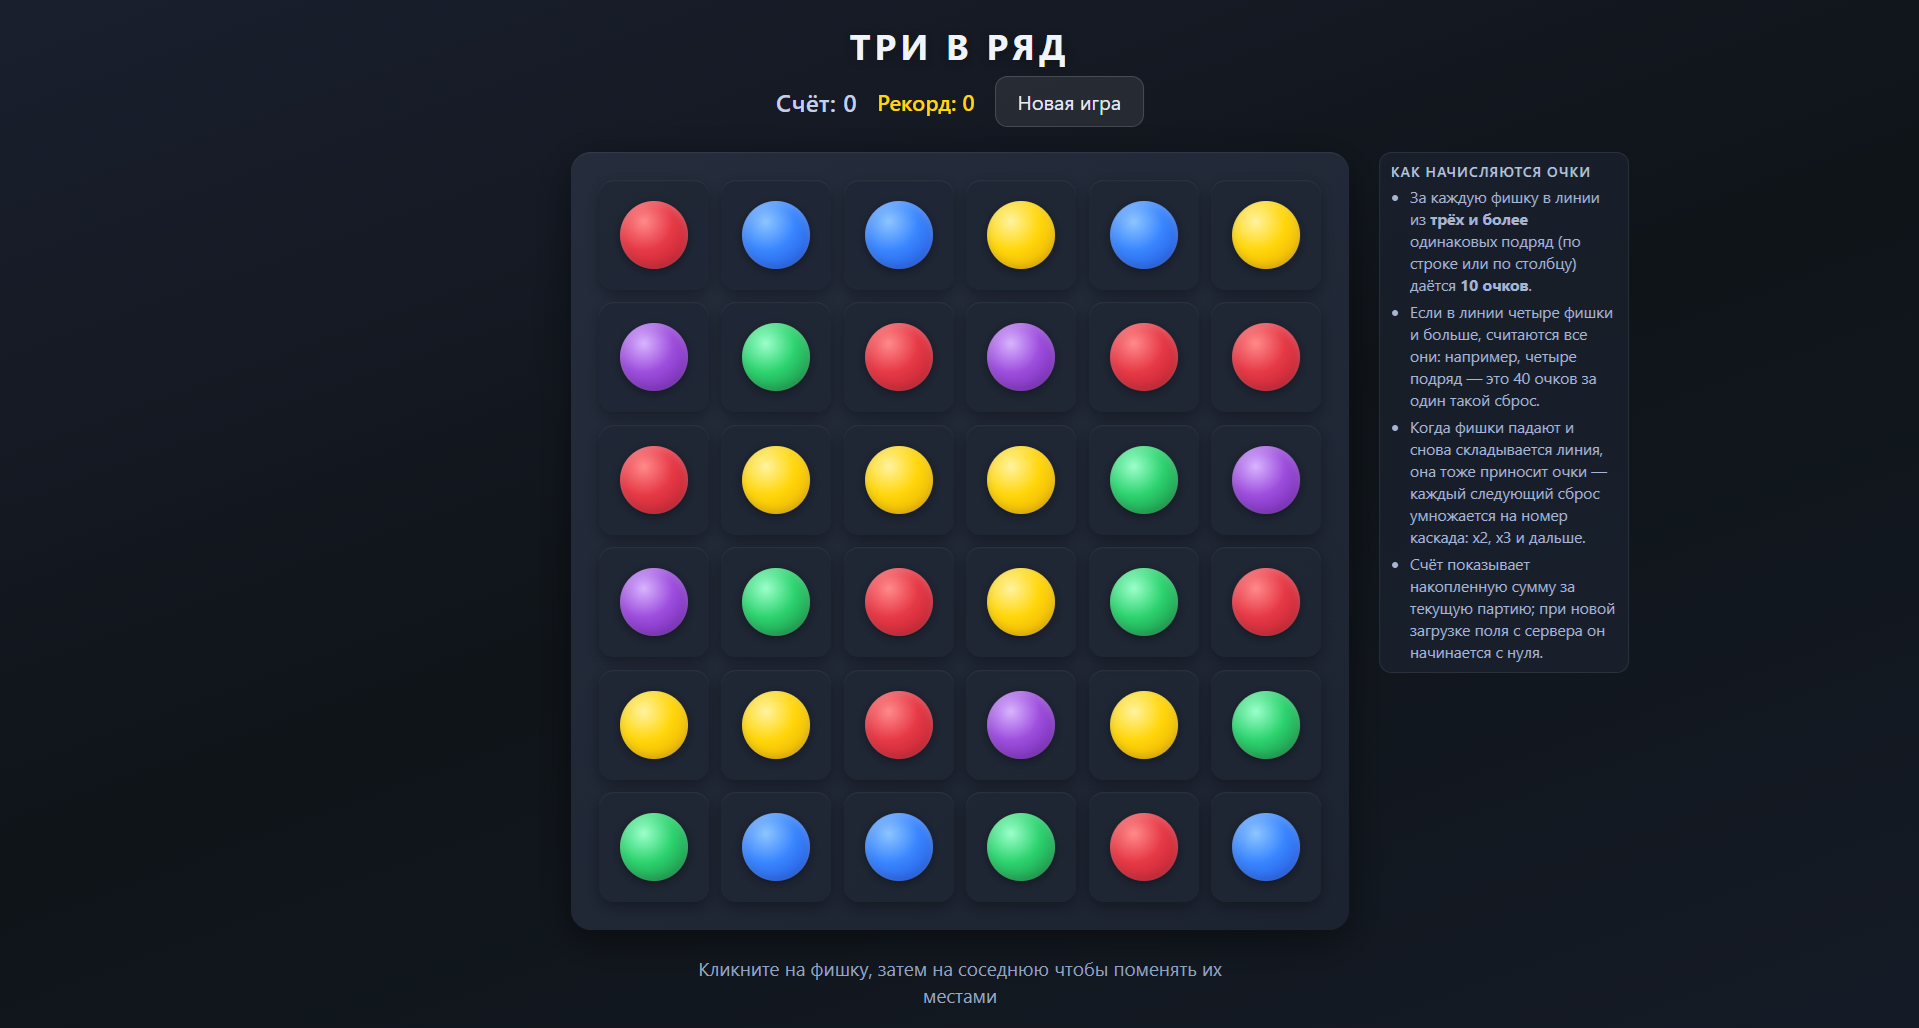
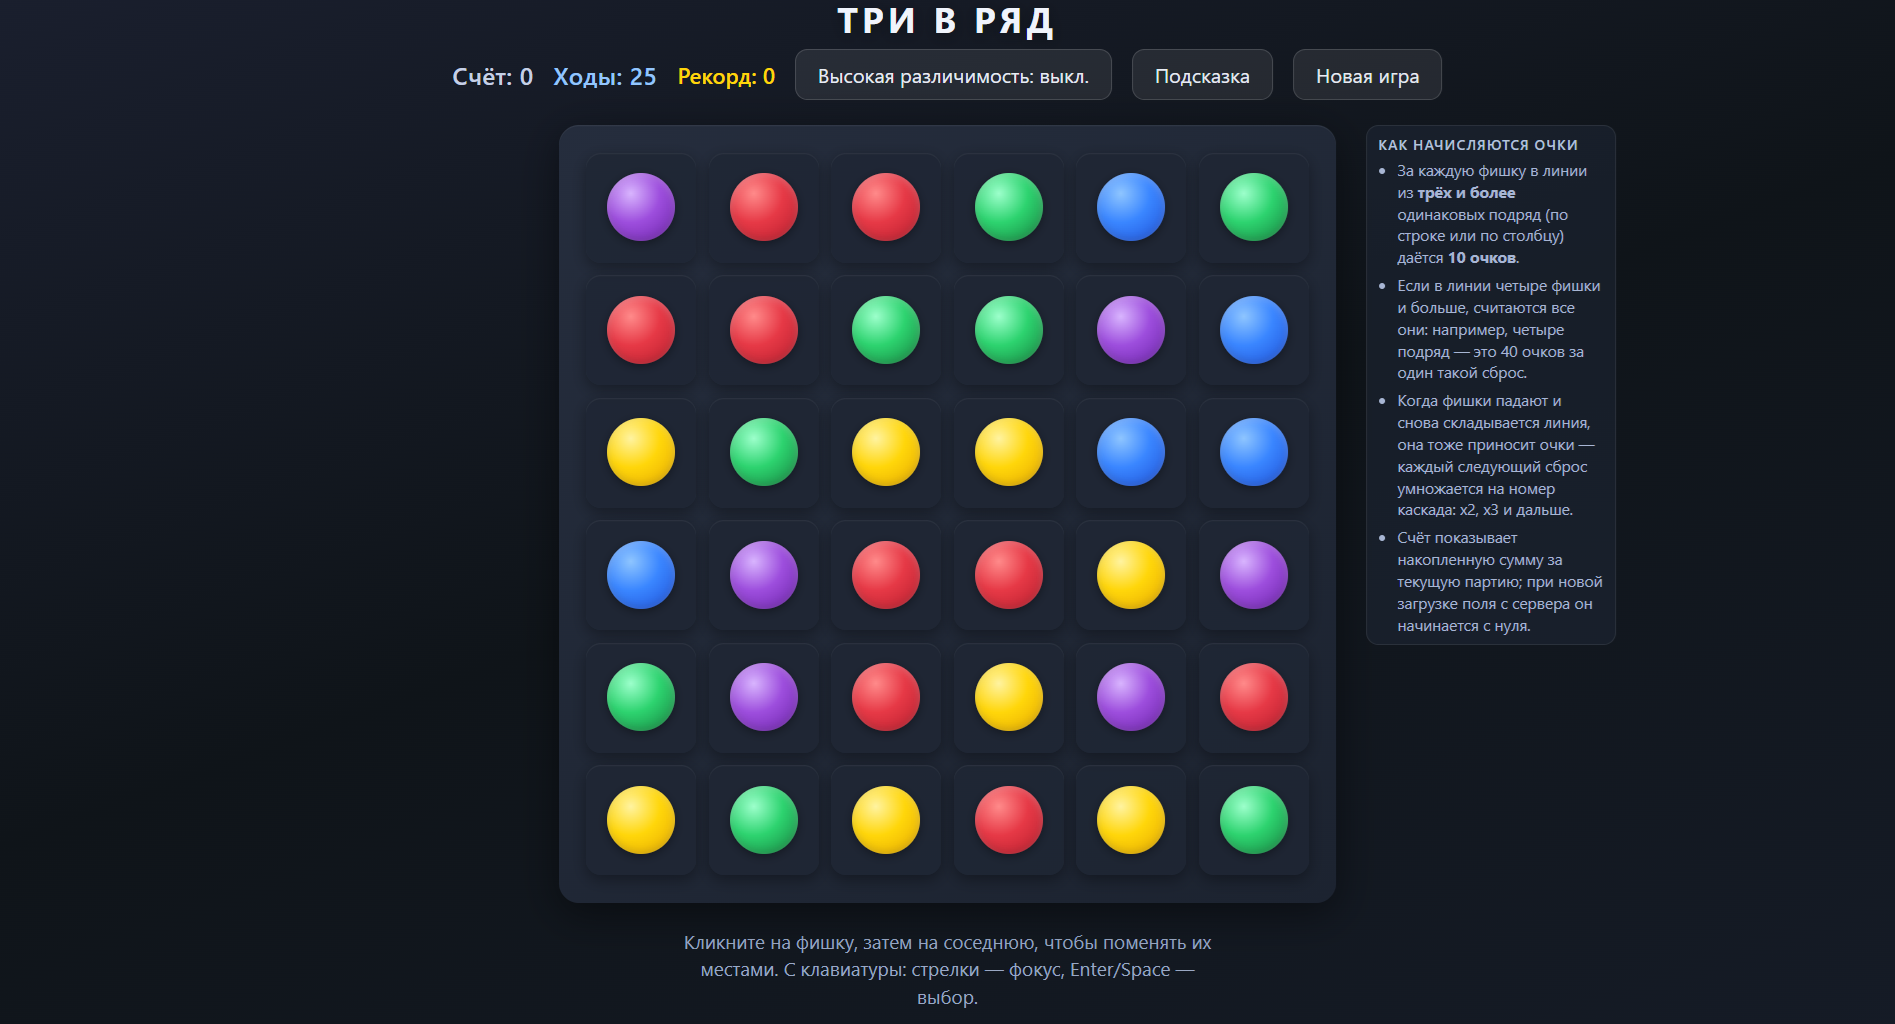
correct use of arrows

diff --git a/game.js b/game.js
@@ -29,6 +29,12 @@ document.addEventListener('DOMContentLoaded', () => {
   const HINT_HIGHLIGHT_MS = 1600;
   const CELL_CLASS_NAMES = ['cell-1', 'cell-2', 'cell-3', 'cell-4', 'cell-5'];
   const CELL_LABELS = ['фишка 1', 'фишка 2', 'фишка 3', 'фишка 4', 'фишка 5'];
+  const ARROW_KEY_ACTIONS = {
+    ArrowUp: [-1, 0],
+    ArrowRight: [0, 1],
+    ArrowDown: [1, 0],
+    ArrowLeft: [0, -1],
+  };
 
   const delay = (ms) => new Promise((resolve) => setTimeout(resolve, ms));
   const nextFrame = () => new Promise((resolve) => requestAnimationFrame(resolve));
@@ -814,17 +820,49 @@ document.addEventListener('DOMContentLoaded', () => {
     });
   }
 
-  function handleCellKeyDown(event, cell) {
-    const keyActions = {
-      ArrowUp: [-1, 0],
-      ArrowRight: [0, 1],
-      ArrowDown: [1, 0],
-      ArrowLeft: [0, -1],
-    };
+  function isTextInputTarget(target) {
+    return (
+      target instanceof HTMLElement &&
+      (target.isContentEditable || ['INPUT', 'TEXTAREA', 'SELECT'].includes(target.tagName))
+    );
+  }
 
-    if (keyActions[event.key]) {
+  function shouldEnterBoardFromDocument(event) {
+    if (
+      event.defaultPrevented ||
+      event.altKey ||
+      event.ctrlKey ||
+      event.metaKey ||
+      boardLocked ||
+      gameOver ||
+      !isBoardReady()
+    ) {
+      return false;
+    }
+
+    const target = event.target;
+    if (isTextInputTarget(target)) {
+      return false;
+    }
+
+    return !(target instanceof Element && target.closest('.cell'));
+  }
+
+  function handleDocumentKeyDown(event) {
+    const keyAction = ARROW_KEY_ACTIONS[event.key];
+    if (!keyAction || !shouldEnterBoardFromDocument(event)) {
+      return;
+    }
+
+    event.preventDefault();
+    const [deltaRow, deltaCol] = keyAction;
+    moveKeyboardFocus(deltaRow, deltaCol);
+  }
+
+  function handleCellKeyDown(event, cell) {
+    if (ARROW_KEY_ACTIONS[event.key]) {
       event.preventDefault();
-      const [deltaRow, deltaCol] = keyActions[event.key];
+      const [deltaRow, deltaCol] = ARROW_KEY_ACTIONS[event.key];
       moveKeyboardFocus(deltaRow, deltaCol);
       return;
     }
@@ -836,6 +874,8 @@ document.addEventListener('DOMContentLoaded', () => {
   }
 
   fetchBoard();
+
+  document.addEventListener('keydown', handleDocumentKeyDown);
 
   newGameBtn?.addEventListener('click', () => {
     startNewGame({ requireConfirmation: true });

diff --git a/index.html b/index.html
@@ -105,7 +105,7 @@
     </div>
 
     <p class="hint">
-      Кликните на фишку, затем на соседнюю, чтобы поменять их местами. С клавиатуры: стрелки — фокус, Enter/Space — выбор.
+      Кликните на фишку, затем на соседнюю, чтобы поменять их местами. С клавиатуры: стрелки — вход в поле и фокус, Enter/Space — выбор.
     </p>
 
     <div id="game-over-modal" class="modal" role="dialog" aria-modal="true" aria-live="assertive" aria-atomic="true" aria-labelledby="game-over-title" hidden>